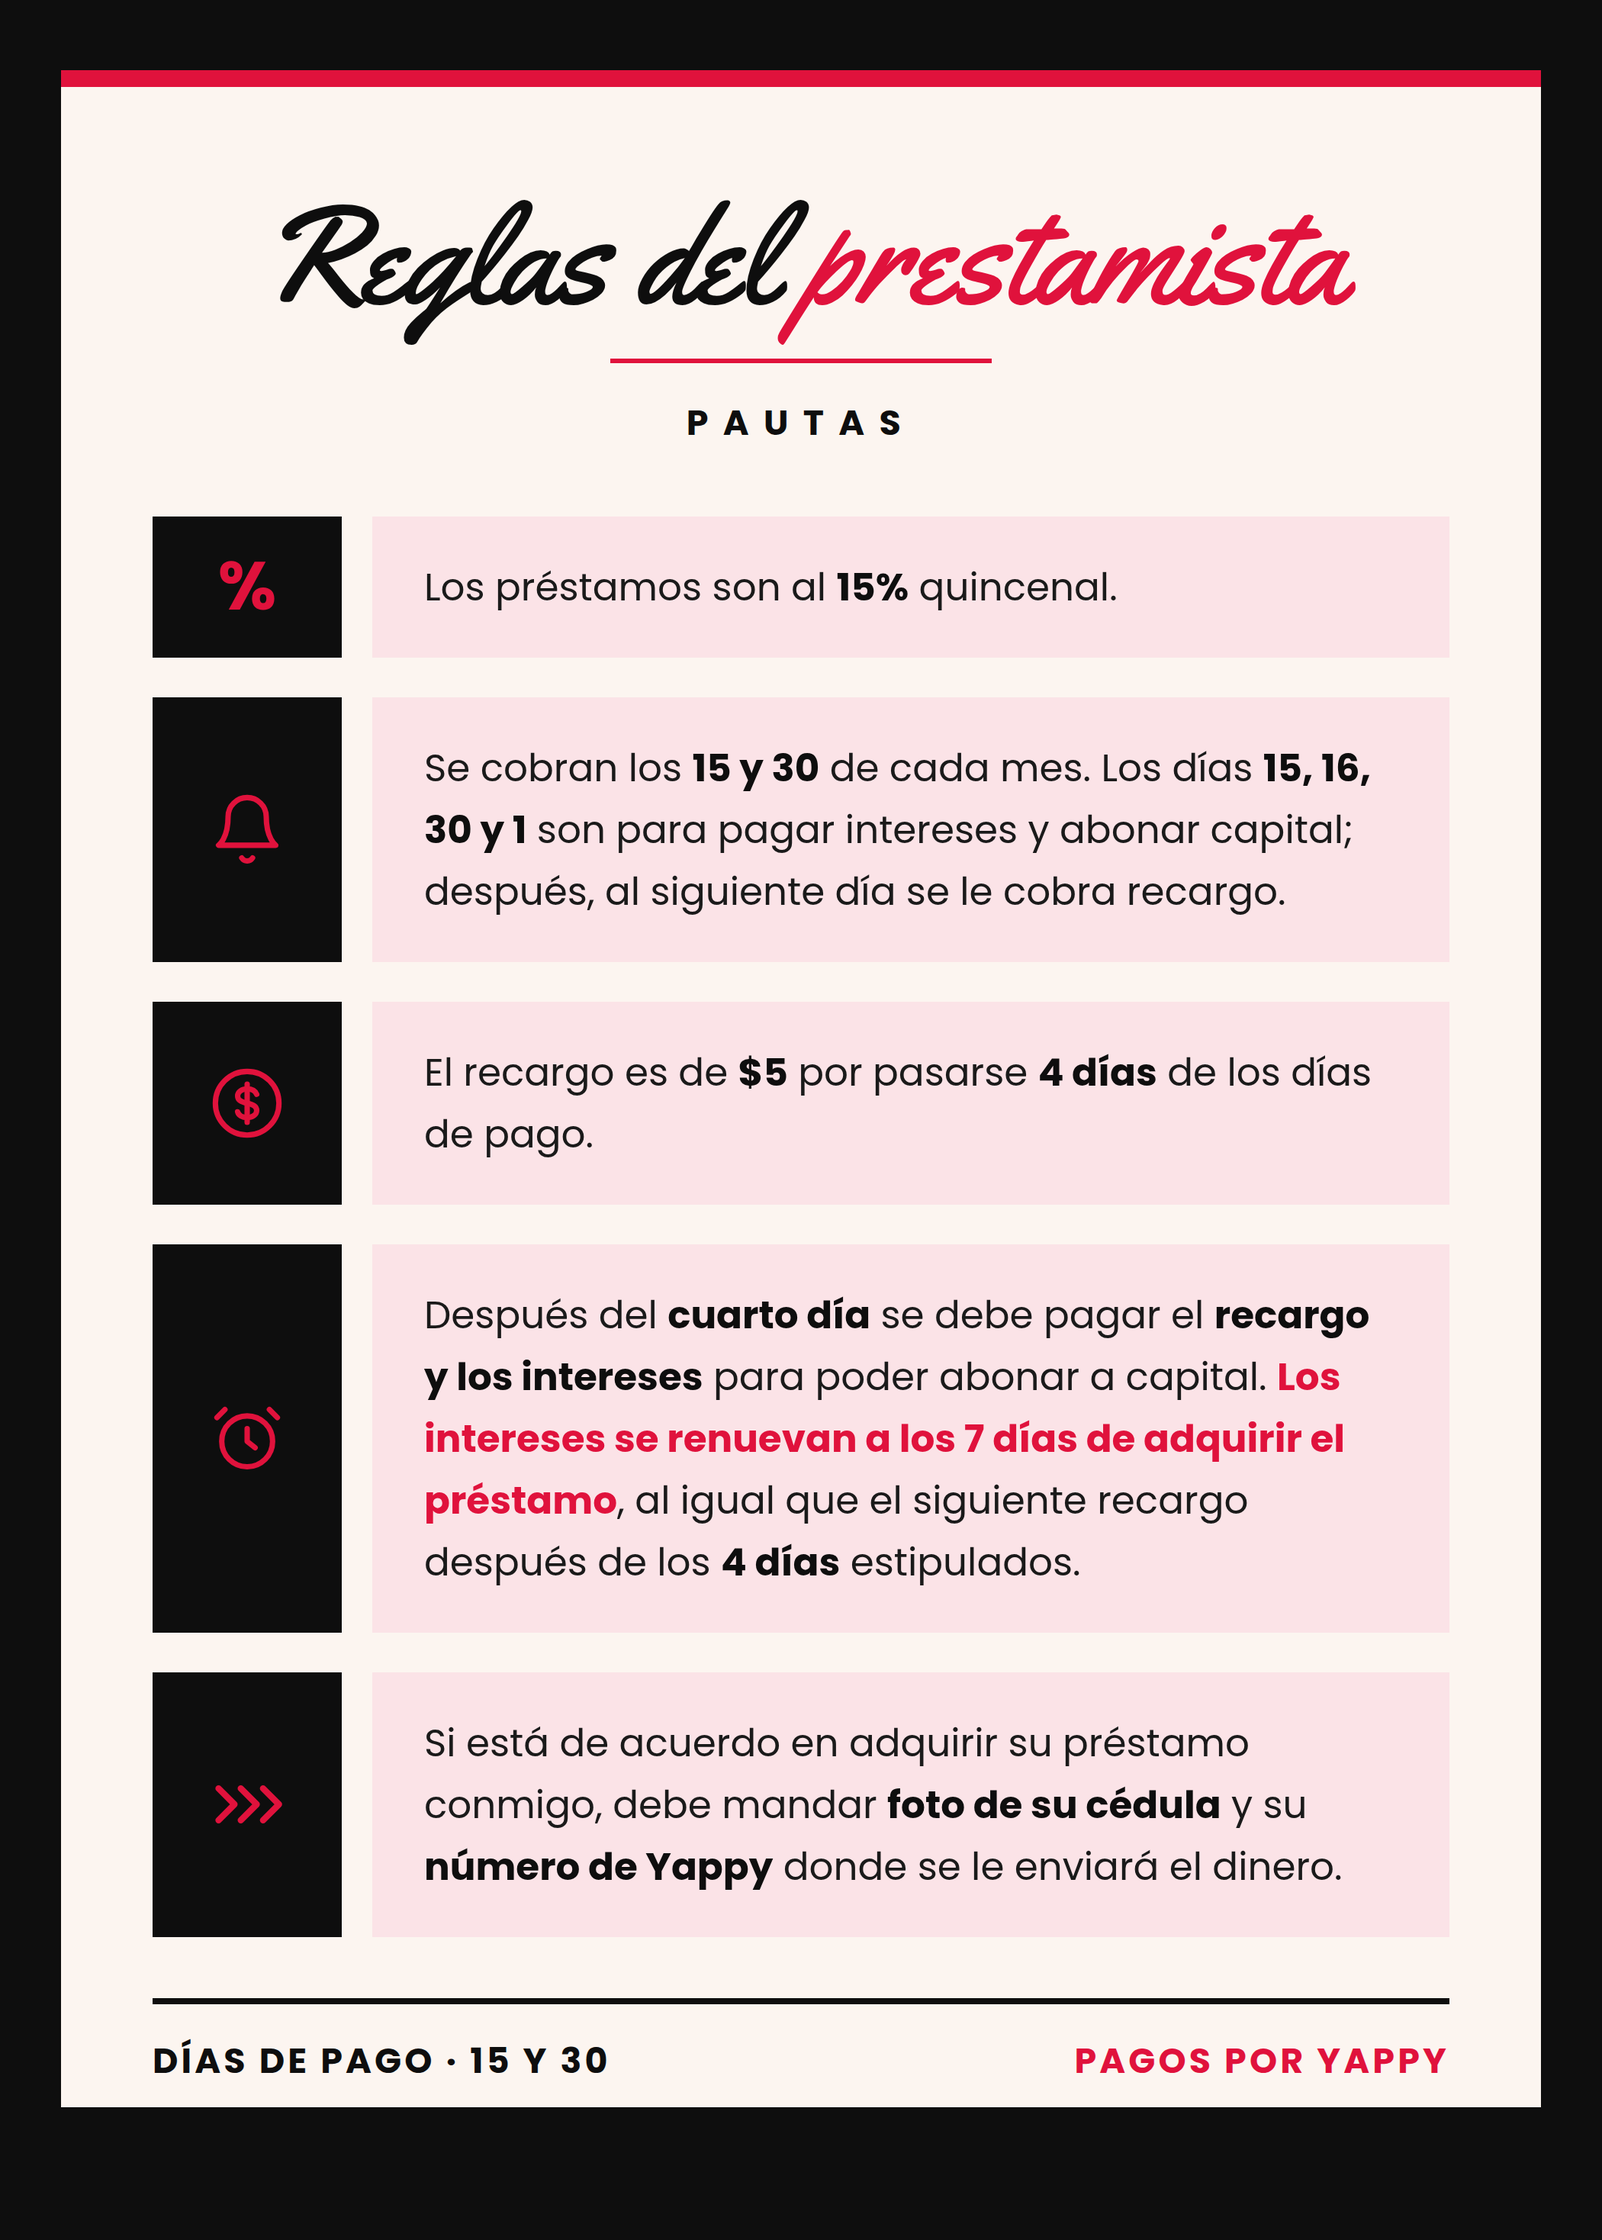
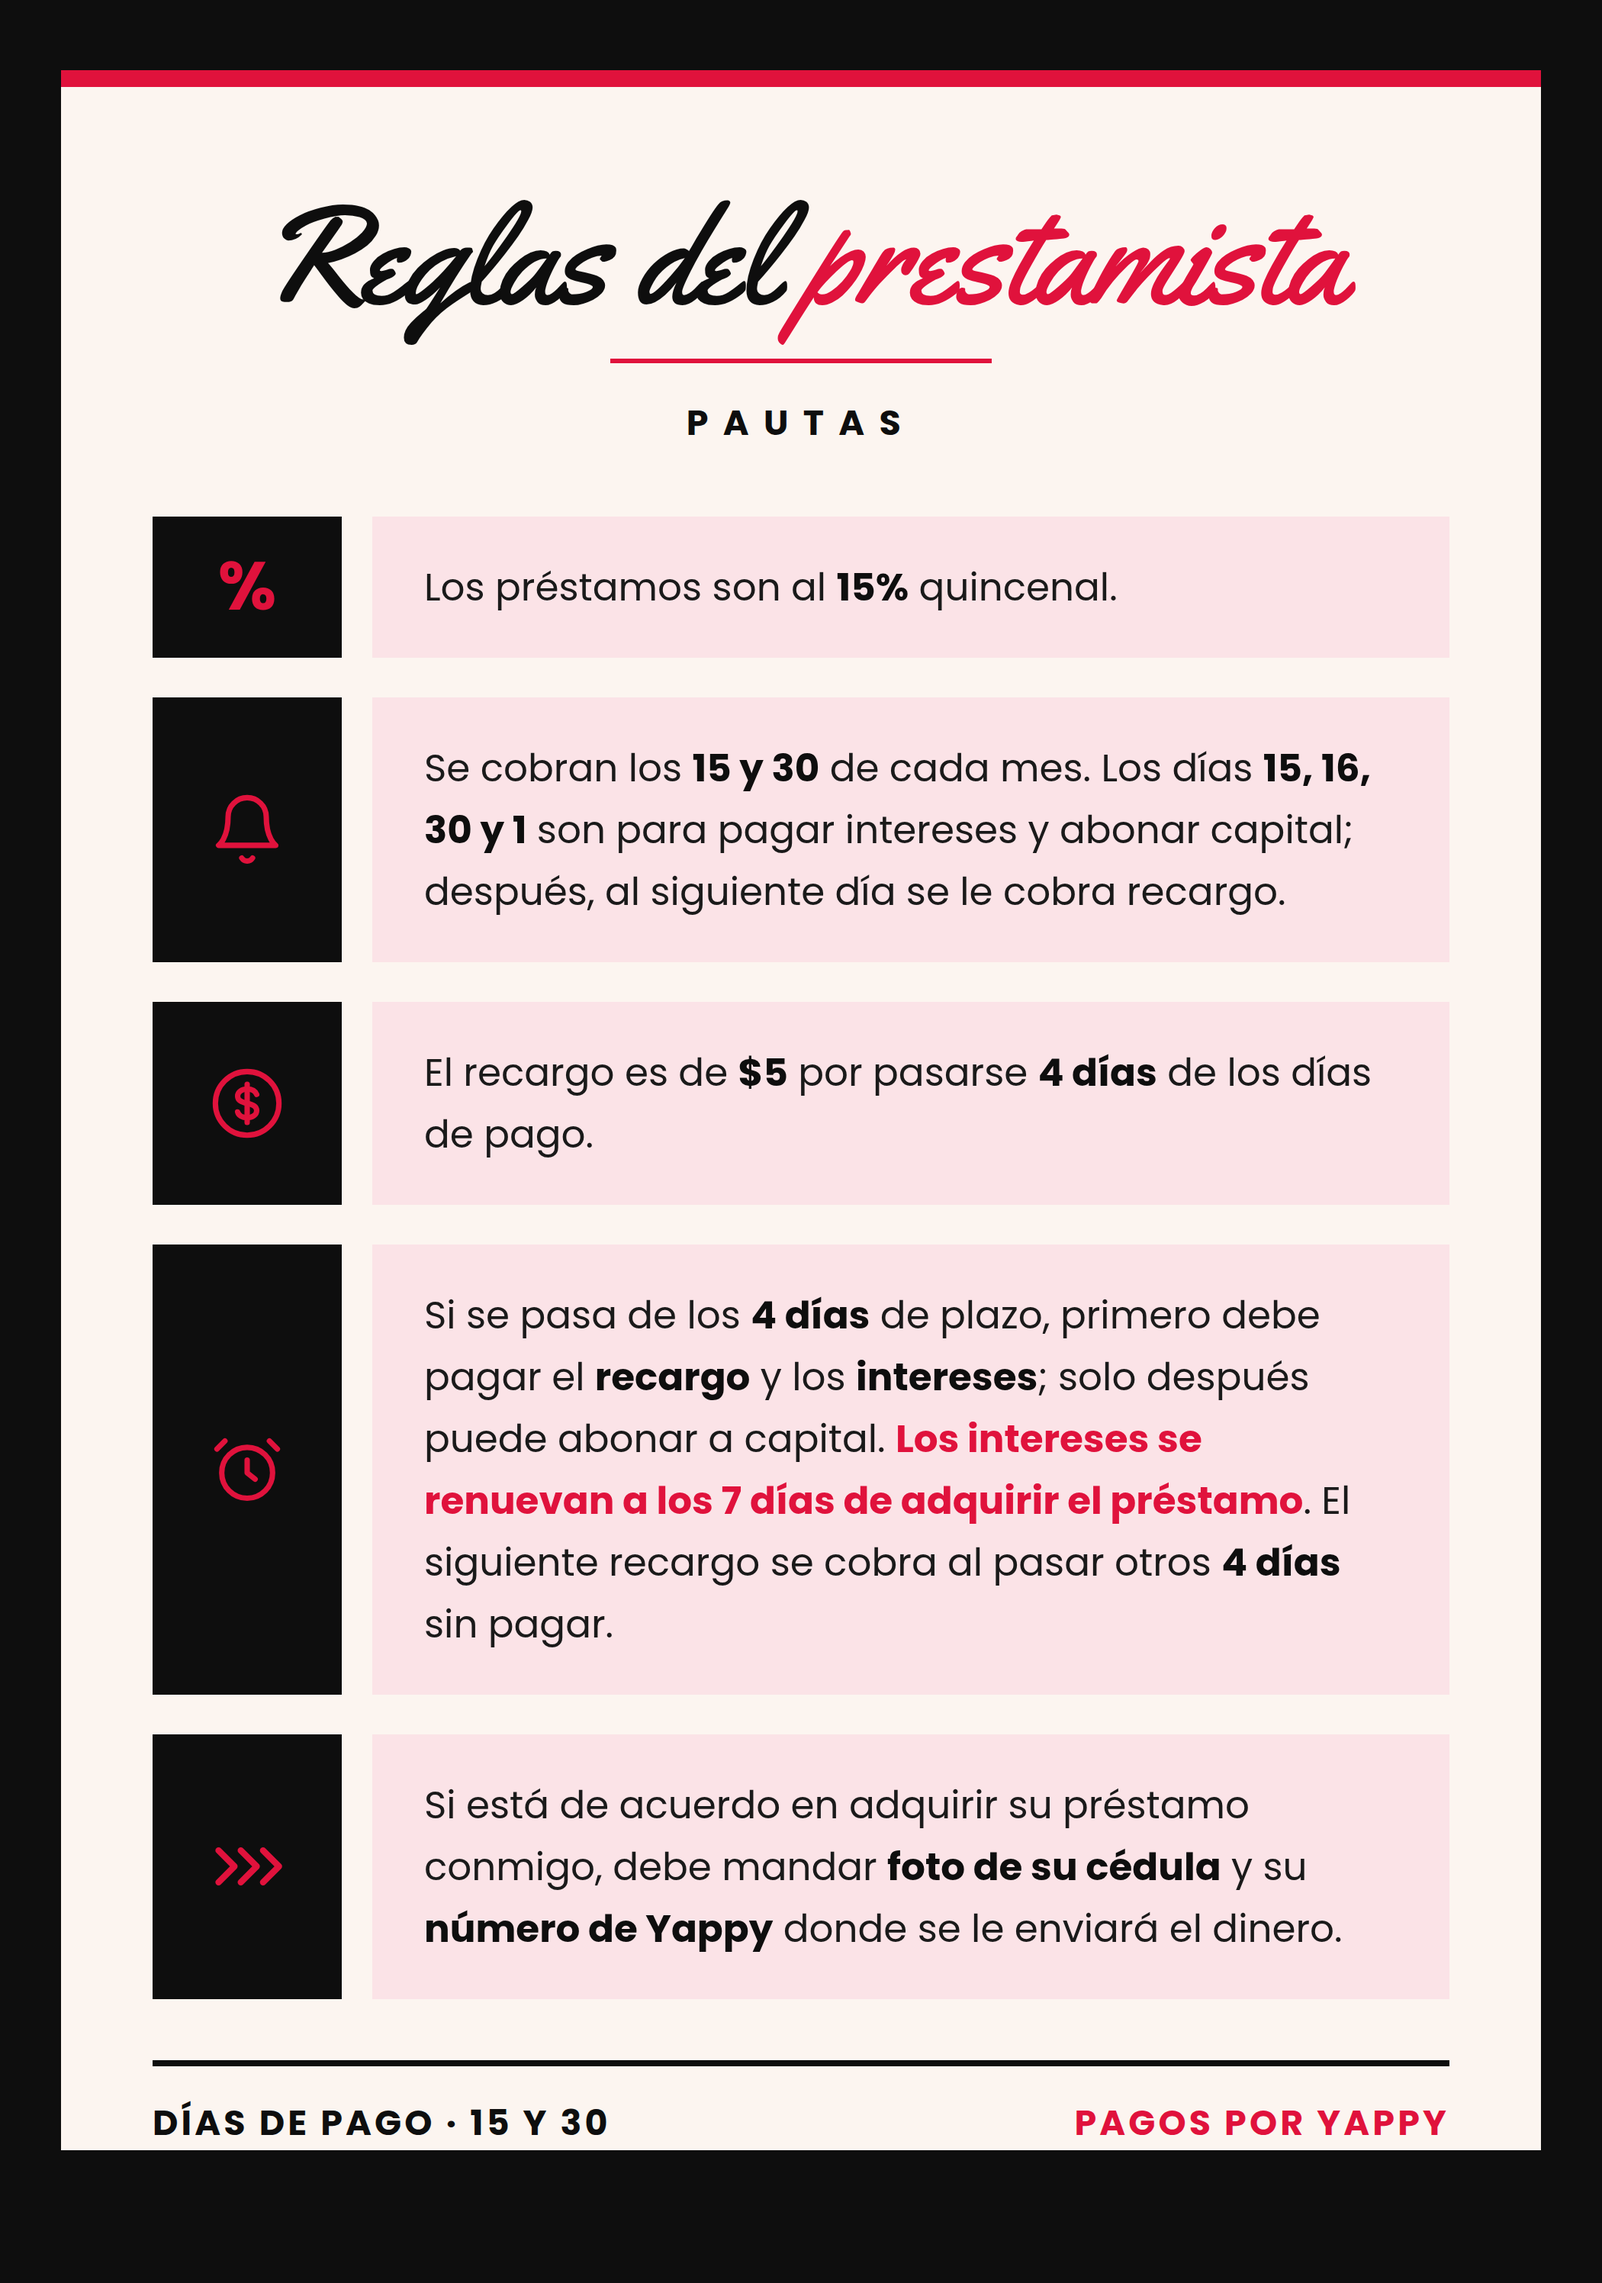
Reescribir la regla 4 en lenguaje más claro
Se reformula el cuarto punto en frases cortas y en orden cronológico:
primero el recargo y los intereses, luego el abono a capital, y por
último cuándo se cobra el siguiente recargo. Se mantiene en rojo la
renovación de intereses a los 7 días de adquirir el préstamo.

Claude-Session: https://claude.ai/code/session_01Y7exA4YgXbx8xBZnSEXwbk

diff --git a/reglas-prestamista.html b/reglas-prestamista.html
@@ -109,7 +109,7 @@
           <path d="m19 3 2.5 2.5"/>
         </svg>
       </div>
-      <div class="text">Después del <b>cuarto día</b> se debe pagar el <b>recargo y los intereses</b> para poder abonar a capital. <span class="rojo">Los intereses se renuevan a los 7 días de adquirir el préstamo</span>, al igual que el siguiente recargo después de los <b>4 días</b> estipulados.</div>
+      <div class="text">Si se pasa de los <b>4 días</b> de plazo, primero debe pagar el <b>recargo</b> y los <b>intereses</b>; solo después puede abonar a capital. <span class="rojo">Los intereses se renuevan a los 7 días de adquirir el préstamo</span>. El siguiente recargo se cobra al pasar otros <b>4 días</b> sin pagar.</div>
     </div>
 
     <div class="row">
